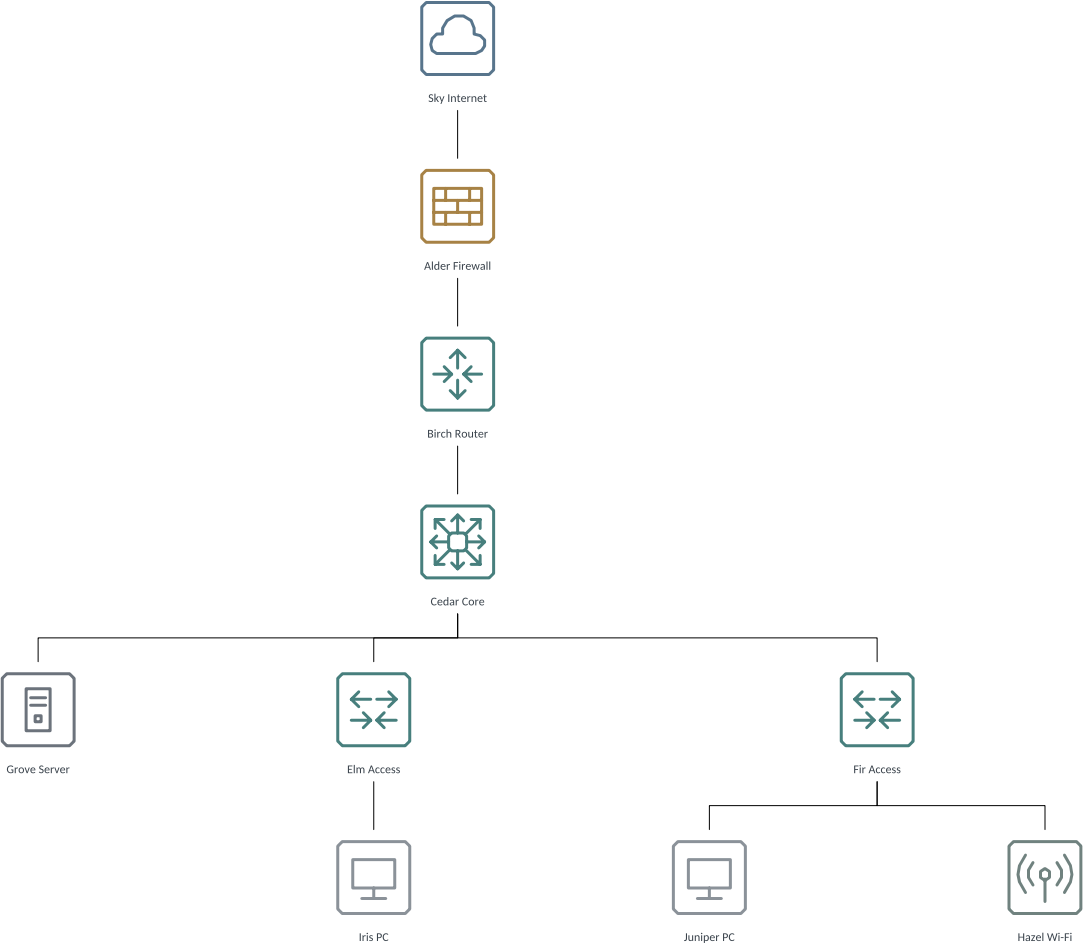
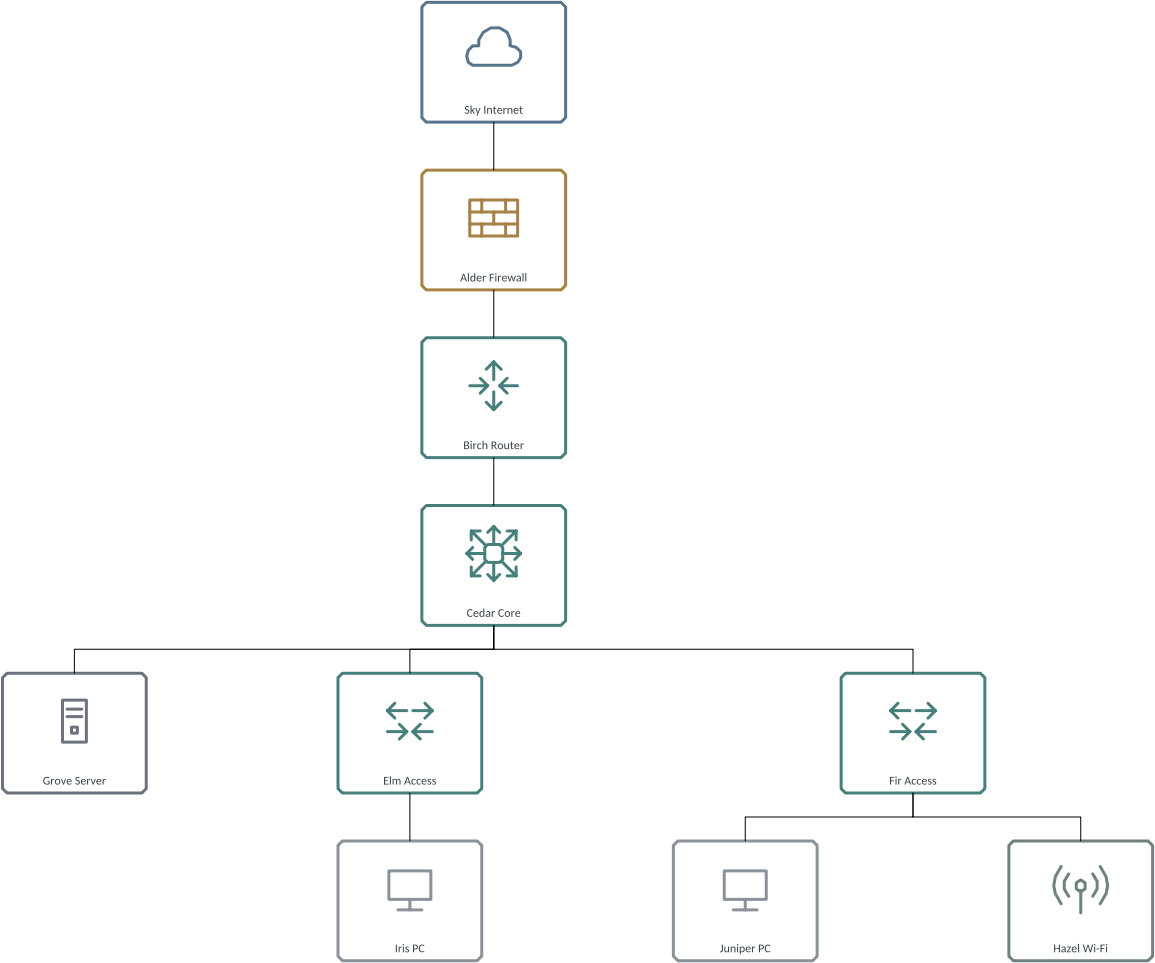
M5.38b: built-in network masters drawn as cards
Acceptance found that a connector glued to a built-in network master stopped
short of the icon: glue lands on the shape's 1.5 x 1.25 in box edge, while the
icon tile was 0.75 in inside it. Each master now draws its outline on its own
box (chamfered, following Width and Height), with the glyph and label inside,
so side, tree, fan and dynamic glue all meet the drawn outline. Box size, text
block and connection rows are unchanged: in the office, SAN and fabric examples
only master parts change, every page part is byte-equal. Visio 2021 opens all
three with 18/80/20 Connects and moves no endpoint after recalculation.

CHANGELOG and install notes: unglued ObjType 0 shapes are not avoided, as in
Visio 2021 (witnessed), so this is no longer listed as a gap. cargo xtask ci:
all 8 gates, 738 tests.

diff --git a/crates/engine/src/network.rs b/crates/engine/src/network.rs
@@ -1,6 +1,9 @@
 //! Native redraws of ecceman/affinity square icons, public domain (Unlicense).
 //! Pinned source: 48d4a4fa87957cb542678ed5952227028b8657f5; see ATTRIBUTION.md.
 //! The FC switch is contributor-original, MIT OR Apache-2.0.
+//! Each master is drawn as a card: its outline is the shape's own box, with the
+//! glyph and the label inside, so every glue point on the box edge (side centres,
+//! tree and fan points, dynamic glue) lands on the drawn outline.
 //! https://learn.microsoft.com/en-us/office/client-developer/visio/geometry-section
 use crate::{Result, edit::*, operation};
 use misterdiagram_model::{Document, Row, Section};
@@ -8,7 +11,8 @@ use misterdiagram_model::{Document, Row, Section};
 // Each point is an integer on a 48-unit, 0.75-inch icon canvas. Paths are
 // centerline redraws, not embedded SVG outlines. A single weight applies to all.
 type Path = &'static [(i16, i16)];
-const FRAME: Path = &[(3, 0), (45, 0), (48, 3), (48, 45), (45, 48), (3, 48), (0, 45), (0, 3), (3, 0)];
+// The card's corner chamfer, the affinity tile's 3/48 of 0.75 inch.
+const CHAMFER: f64 = 3. / 64.;
 const CLOUD: &[Path] = &[&[
     (10, 14),
     (7, 16),
@@ -179,7 +183,27 @@ pub(crate) fn document() -> Result<Document> {
                 .collect(),
             ..Default::default()
         };
-        for path in std::iter::once(&FRAME).chain(paths.iter()) {
+        // The card outline, on the shape's box so it follows Width and Height.
+        let card = [
+            (CHAMFER, None, 0., None),
+            (1.5 - CHAMFER, Some(format!("Width-{CHAMFER}")), 0., None),
+            (1.5, Some("Width".to_string()), CHAMFER, None),
+            (1.5, Some("Width".to_string()), 1.25 - CHAMFER, Some(format!("Height-{CHAMFER}"))),
+            (1.5 - CHAMFER, Some(format!("Width-{CHAMFER}")), 1.25, Some("Height".to_string())),
+            (CHAMFER, None, 1.25, Some("Height".to_string())),
+            (0., None, 1.25 - CHAMFER, Some(format!("Height-{CHAMFER}"))),
+            (0., None, CHAMFER, None),
+            (CHAMFER, None, 0., None),
+        ];
+        for (at, (x, xf, y, yf)) in card.iter().enumerate() {
+            geometry.rows.push(Row {
+                index: Some(u32::try_from(geometry.rows.len() + 1).map_err(operation)?),
+                row_type: Some(if at == 0 { "MoveTo" } else { "LineTo" }.into()),
+                cells: vec![cell("X", &x.to_string(), xf.as_deref()), cell("Y", &y.to_string(), yf.as_deref())],
+                ..Default::default()
+            });
+        }
+        for path in paths.iter() {
             for (at, (x, y)) in path.iter().enumerate() {
                 let dx = (f64::from(*x) - 24.) / 64.;
                 let dy = (f64::from(*y) - 56.) / 64.;

diff --git a/CHANGELOG.md b/CHANGELOG.md
@@ -24,10 +24,12 @@ carries THIRD-PARTY-LICENSES.txt, the licences of the Rust crates linked into th
 - **Author** drawings from commands: pages, layers, shapes, text, shape data, hyperlinks,
   formatting, stencils and master drops, connection points, glued connectors with orthogonal
   routing and line jumps, and tree, row and fan layouts. `run --batch FILE` rebuilds a drawing
-  from a script.
+  from a script. As in Visio, connectors route around placeable shapes: a shape a connector is
+  glued to, or one whose ObjType cell is 1 (docs/install.md, "Connectors and obstacles").
 - **Automate** through the MCP stdio server (`misterdiagram mcp`): sixteen tools for opening,
   building, inspecting, rendering and saving drawings.
-- A built-in network stencil with eleven device masters, and vendor stencils you already have.
+- A built-in network stencil with eleven device masters, drawn as cards so connectors meet
+  the outline on every side, and vendor stencils you already have.
 
 ### Known gaps
 
@@ -40,9 +42,6 @@ carries THIRD-PARTY-LICENSES.txt, the licences of the Rust crates linked into th
   separate lanes, spaced by a rule that matches Visio exactly on rows and columns of boxes and
   approximates it elsewhere. docs/gaps.md has the measurements (the paragraph that begins
   "Connector lanes").
-- **Connectors go around placeable shapes only.** A shape counts as an obstacle when a
-  connector is glued to it or its ObjType cell is 1; a shape with nothing glued to it is not
-  avoided. See docs/install.md, "Connectors and obstacles".
 - **Vendor masters drawn at another scale land too big.** A 1:10 rack master dropped on a 1:1
   page comes out ten times its size
   ([#68](https://github.com/MisterDiagram/MisterDiagram/issues/68)).

diff --git a/docs/install.md b/docs/install.md
@@ -145,7 +145,7 @@ parameters; the [README](../README.md) and [docs/mcp.md](mcp.md) cover the rest.
 routing), and its route goes around shapes that count as obstacles. A shape counts when it is
 placeable: its `ObjType` cell is 1, which every shape a connector is glued to gets
 automatically. A shape with nothing glued to it keeps `ObjType` 0 and connectors may run
-straight through it. To make such a shape an obstacle, set the cell before adding connectors:
+straight through it; Visio 2021 does the same. To make such a shape an obstacle, set the cell before adding connectors:
 
 ```json
 {"command": "sheet.set", "params": {"id": 3, "name": "ObjType", "value": 1}}
